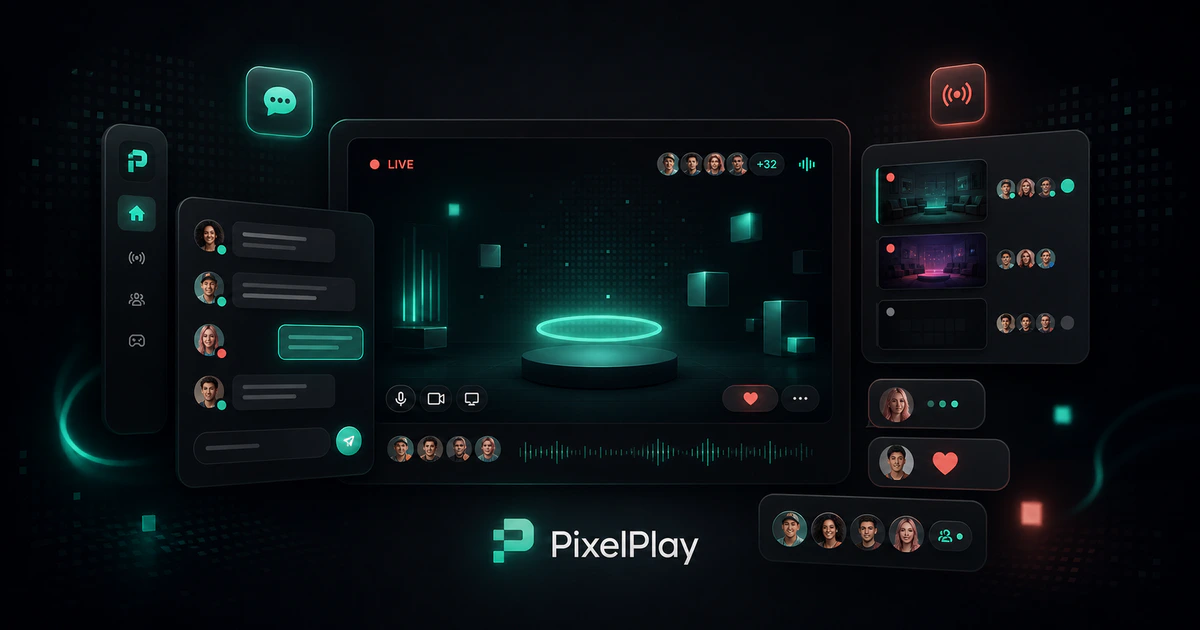
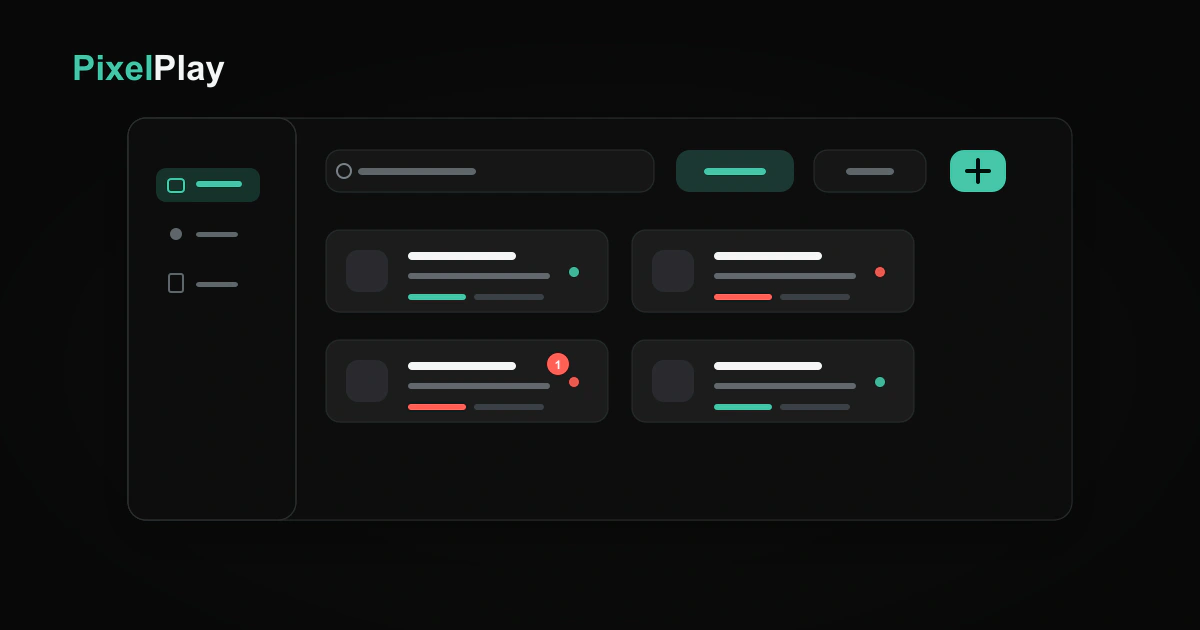
feat(#65): 메인과 채팅방 SEO metadata 추가

diff --git a/src/app/chat-room/[roomId]/page.tsx b/src/app/chat-room/[roomId]/page.tsx
@@ -1,5 +1,52 @@
 // 라우트 페이지를 렌더링합니다.
 import { ChatRoom } from "@/components/chat-room/chat-room";
+import { createClient } from "@/lib/supabase/server";
+import type { Metadata } from "next";
+
+const CHAT_ROOM_METADATA_FALLBACK_TITLE = "채팅방";
+const CHAT_ROOM_METADATA_FALLBACK_DESCRIPTION =
+  "PixelPlay 채팅방에서 실시간 메시지와 참여자 상호작용을 즐겨보세요.";
+
+export async function generateMetadata(props: PageProps<"/chat-room/[roomId]">): Promise<Metadata> {
+  const { roomId } = await props.params;
+  const supabase = await createClient();
+  const { data: room, error } = await supabase
+    .from("chat_room")
+    .select("title, description")
+    .eq("id", roomId)
+    .maybeSingle();
+
+  if (error) {
+    console.error("채팅방 metadata 조회 실패", error);
+  }
+
+  const title = room?.title?.trim() || CHAT_ROOM_METADATA_FALLBACK_TITLE;
+  const description = room?.description?.trim() || CHAT_ROOM_METADATA_FALLBACK_DESCRIPTION;
+
+  return {
+    title,
+    description,
+    openGraph: {
+      title: `${title} | PixelPlay`,
+      description,
+      url: `/chat-room/${roomId}`,
+      images: [
+        {
+          url: "/og-chat-room.webp",
+          width: 1200,
+          height: 630,
+          alt: "PixelPlay 채팅방 썸네일",
+        },
+      ],
+    },
+    twitter: {
+      card: "summary_large_image",
+      title: `${title} | PixelPlay`,
+      description,
+      images: ["/og-chat-room.webp"],
+    },
+  };
+}
 
 export default async function Page(props: PageProps<"/chat-room/[roomId]">) {
   const { roomId } = await props.params;

diff --git a/src/app/page.tsx b/src/app/page.tsx
@@ -1,5 +1,34 @@
 // 라우트 페이지를 렌더링합니다.
 import MainMenuSidebar from "@/components/common/main-menu-sidebar";
+import type { Metadata } from "next";
+
+const HOME_METADATA_TITLE = "실시간 채팅과 라이브 상호작용";
+const HOME_METADATA_DESCRIPTION =
+  "PixelPlay에서 채팅방을 만들고 참여하며 실시간 소통을 즐겨보세요.";
+
+export const metadata: Metadata = {
+  title: HOME_METADATA_TITLE,
+  description: HOME_METADATA_DESCRIPTION,
+  openGraph: {
+    title: `${HOME_METADATA_TITLE} | PixelPlay`,
+    description: HOME_METADATA_DESCRIPTION,
+    url: "/",
+    images: [
+      {
+        url: "/og-home.webp",
+        width: 1200,
+        height: 630,
+        alt: "PixelPlay 실시간 상호작용 메인 화면",
+      },
+    ],
+  },
+  twitter: {
+    card: "summary_large_image",
+    title: `${HOME_METADATA_TITLE} | PixelPlay`,
+    description: HOME_METADATA_DESCRIPTION,
+    images: ["/og-home.webp"],
+  },
+};
 
 export default function Home() {
   return <MainMenuSidebar />;

diff --git a/src/app/layout.tsx b/src/app/layout.tsx
@@ -21,8 +21,34 @@ const geistMono = Geist_Mono({
 });
 
 export const metadata: Metadata = {
-  title: "PixelPlay - RGB",
+  metadataBase: new URL("https://pixel-play.studio"),
+  title: {
+    default: "PixelPlay - RGB",
+    template: "%s | PixelPlay",
+  },
   description: "화면의 최소 단위인 픽셀을 즐긴다! 화면에 보여지는 스트리밍 서비스를 즐겨보세요",
+  openGraph: {
+    type: "website",
+    siteName: "PixelPlay",
+    title: "PixelPlay - RGB",
+    description: "화면의 최소 단위인 픽셀을 즐긴다! 실시간 채팅과 라이브 상호작용을 즐겨보세요.",
+    url: "/",
+    images: [
+      {
+        url: "/og-home.webp",
+        width: 1200,
+        height: 630,
+        alt: "PixelPlay 메인 썸네일",
+      },
+    ],
+    locale: "ko_KR",
+  },
+  twitter: {
+    card: "summary_large_image",
+    title: "PixelPlay - RGB",
+    description: "화면의 최소 단위인 픽셀을 즐긴다! 실시간 채팅과 라이브 상호작용을 즐겨보세요.",
+    images: ["/og-home.webp"],
+  },
 };
 
 export default function RootLayout({